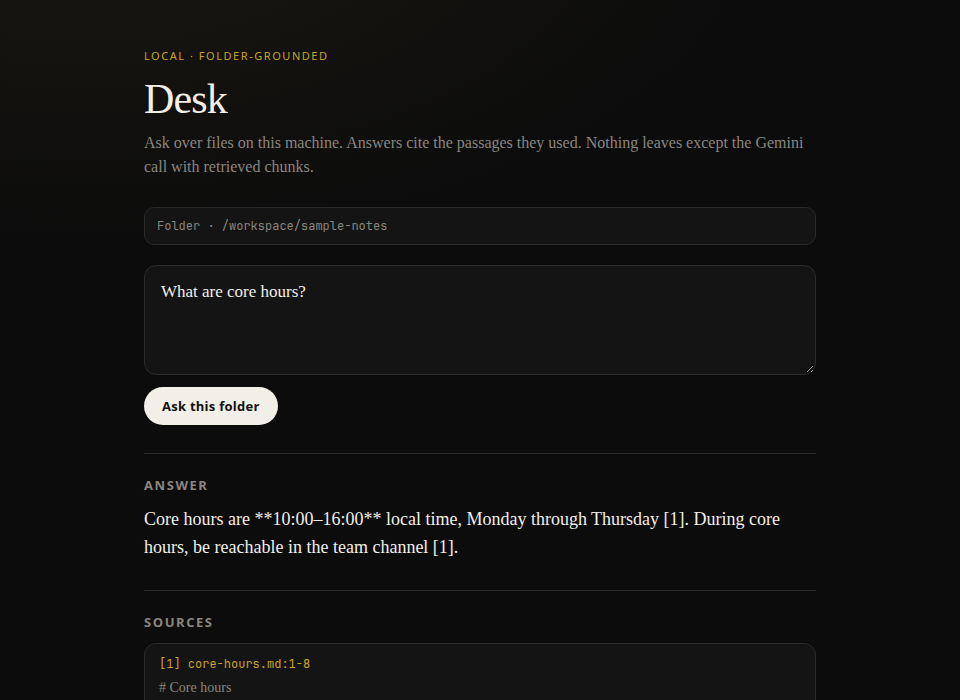
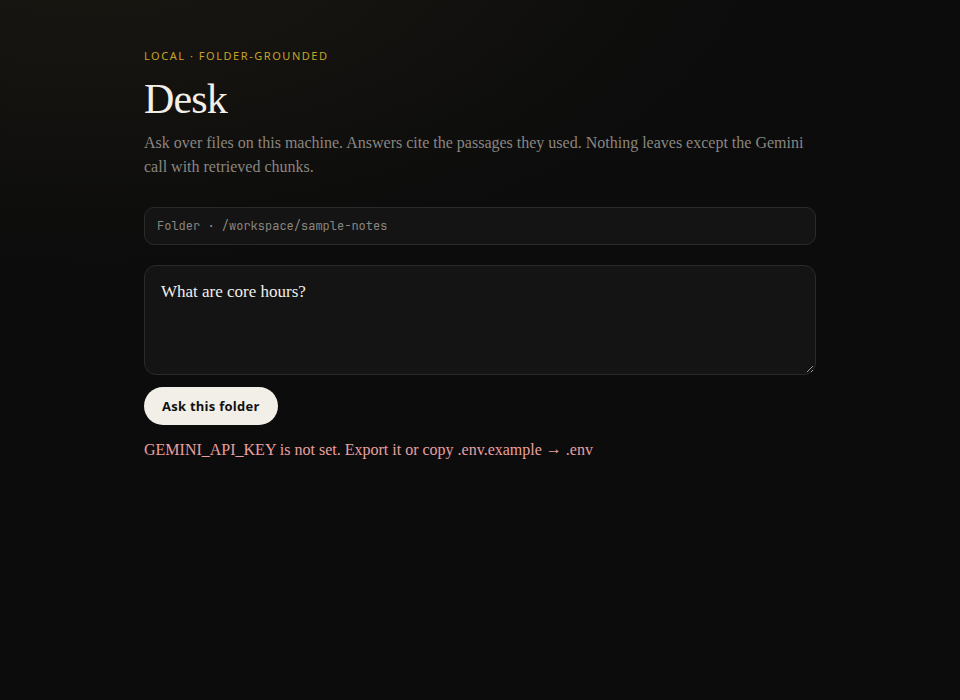
Apply review fixes for notes, citations, and the UI
Replace the meeting note, strip markdown asterisks in the UI, and cite core-hours.md as lines 1-7. Update the README, name the real default model, and skip REPORT.md while scanning.

diff --git a/src/scan.ts b/src/scan.ts
@@ -58,6 +58,7 @@ async function walk(dir: string, root: string, out: string[]): Promise<void> {
       if (SKIP_DIRS.has(ent.name)) continue;
       await walk(full, root, out);
     } else if (ent.isFile()) {
+      if (ent.name === "REPORT.md") continue;
       const ext = path.extname(ent.name).toLowerCase();
       if (!TEXT_EXT.has(ext)) continue;
       out.push(full);
@@ -77,7 +78,7 @@ function chunkText(
   content: string,
   targetChars = 900
 ): DocChunk[] {
-  const lines = content.split(/\r?\n/);
+  const lines = content.replace(/\r?\n$/, "").split(/\r?\n/);
   const chunks: DocChunk[] = [];
   let buf: string[] = [];
   let startLine = 1;

diff --git a/public/index.html b/public/index.html
@@ -167,7 +167,7 @@
         });
         const data = await res.json();
         if (!res.ok) throw new Error(data.error || "Request failed");
-        answer.textContent = data.answer;
+        answer.textContent = data.answer.replaceAll("**", "");
         answerSec.hidden = false;
         sources.innerHTML = "";
         (data.citations || []).forEach((c, i) => {

diff --git a/src/cli.ts b/src/cli.ts
@@ -14,7 +14,7 @@ Usage:
 
 Env:
   GEMINI_API_KEY   required
-  GEMINI_MODEL     optional (default gemini-2.0-flash)
+  GEMINI_MODEL     optional (default gemini-3.6-flash)
 
 Examples:
   npm run desk -- ask ./sample-notes "What are core hours?"

diff --git a/README.md b/README.md
@@ -1,10 +1,8 @@
 # Desk
 
-**Local-first AI over a folder of notes.** Point Desk at docs on disk, ask a question, get an answer grounded in those files — then optionally write a report back into the folder.
+**Ask questions about a folder of notes on your own computer.** Desk finds the passages that match, asks Gemini to answer only from them, and lists each source by file and line. It can also write the answer to a report in the same folder.
 
-A useful local/agentic desktop workflow, not another cloud chat and not a research paper.
-
-![Desk demo — folder → cited answer](./docs/demo.gif)
+![Desk demo — localhost question, then the missing-key error](./docs/demo.gif)
 
 ```
 folder of notes  →  retrieve passages  →  Gemini  →  cited answer
@@ -46,7 +44,7 @@ npm run desk -- report ./sample-notes \
 
 ## Why this exists
 
-Desk is local-first grounding over a folder of notes: retrieve passages from files on disk, then answer with citations. It is the same idea as cloud [CiteBot](https://citebot-chi.vercel.app) (RAG plus a verify harness) and [citebot-evals](https://github.com/jakob-alexander2000/citebot-evals), with the corpus on your machine.
+Desk applies CiteBot's idea to files on your own computer: find the passages first, then ask the model to answer only from them, with sources. [CiteBot](https://citebot-chi.vercel.app) also checks each claim against its sources; Desk doesn't yet. [citebot-evals](https://github.com/jakob-alexander2000/citebot-evals) is CiteBot's fixed question set.
 
 ## Commands
 
@@ -59,7 +57,7 @@ Desk is local-first grounding over a folder of notes: retrieve passages from fil
 
 ## Demo GIF note
 
-`docs/demo.gif` shows the localhost UI path: empty question field → typed question → answer with citations from `./sample-notes` (`core-hours.md`). The frames use the real UI chrome and an answer taken from that note. They illustrate the layout; they are not a new live model response.
+`docs/demo.gif` shows the localhost UI on `127.0.0.1:3847`: empty question field, `What are core hours?` typed, the button while the request is in flight, then the error Desk returns when `GEMINI_API_KEY` is unset. There is no model answer in the recording. `docs/demo-still.png` is that error frame.
 
 ## Verify
 

diff --git a/sample-notes/meeting-2026-10-20.md b/sample-notes/meeting-2026-10-20.md
@@ -1,12 +1,11 @@
-# Sync — 20 Oct 2026
+# Team sync — 20 October 2026
 
 Attendees: product team
 
 Decisions:
-- Ship CiteBot + verify harness first (done)
-- Then narrow eval suite (citebot-evals)
-- Then Desk as the local folder agent
+- Move the weekly demo to Thursday at 15:00
+- Keep time-off requests in the shared notes folder
 
 Open questions:
-- Whether Desk stays CLI-only for v1 or adds a tray later
-- Whether to demo on a personal notes folder or keep sample-notes for strangers
+- Whether the spring offsite needs a second meeting room
+- Whether the Friday overlap should become part of core hours
